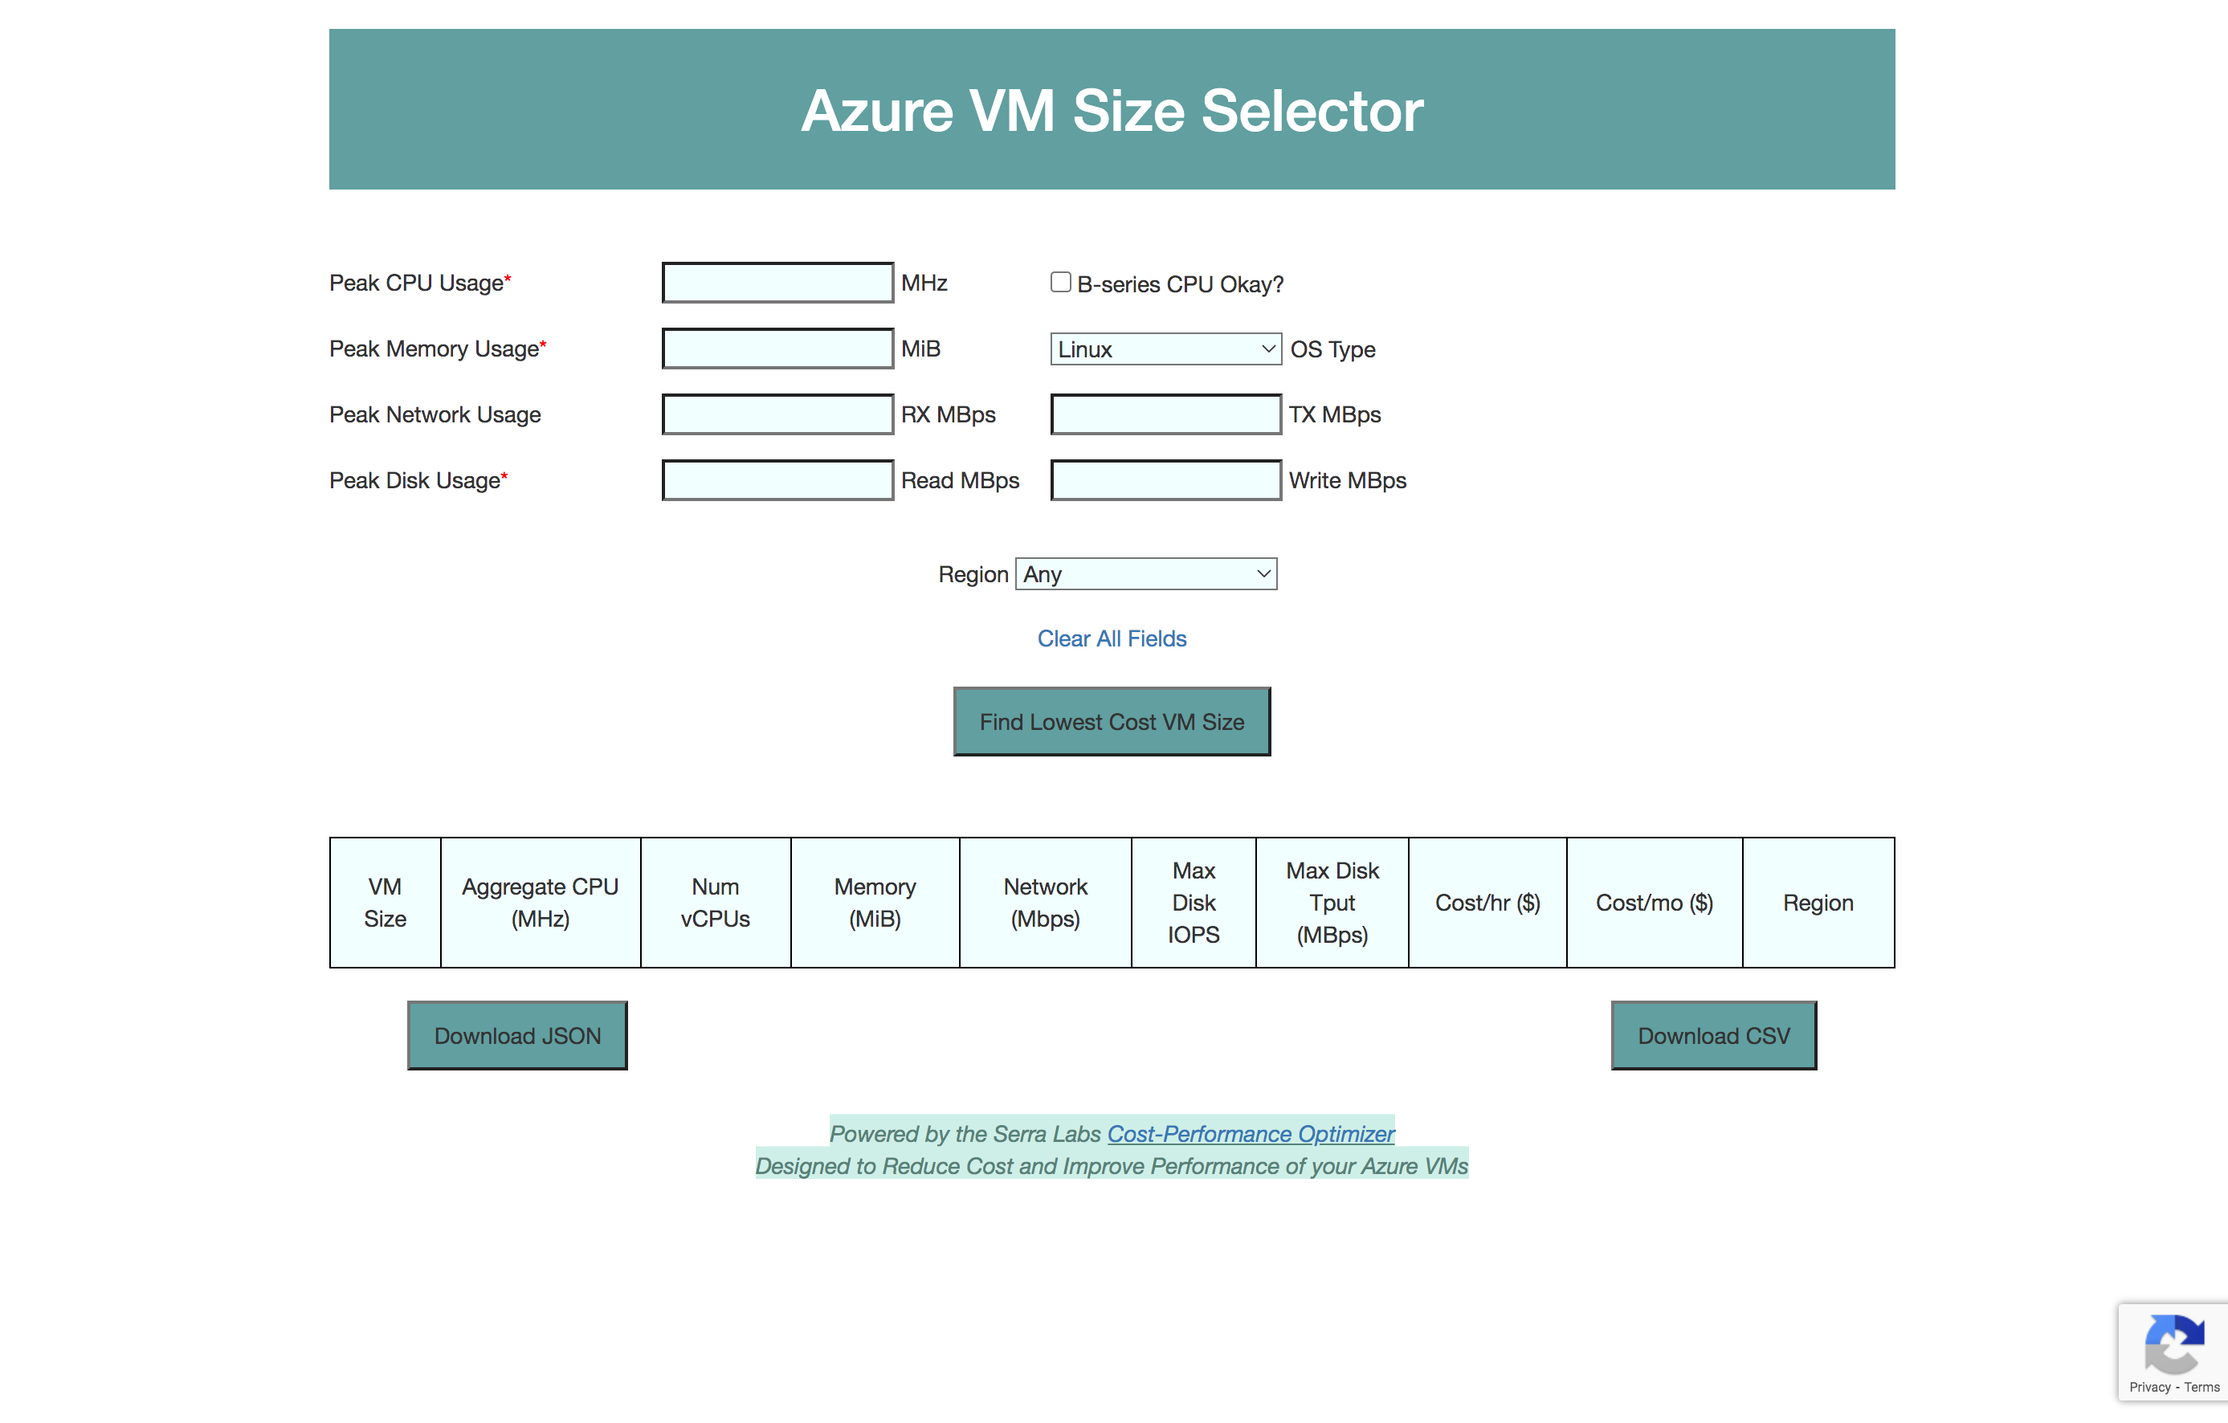
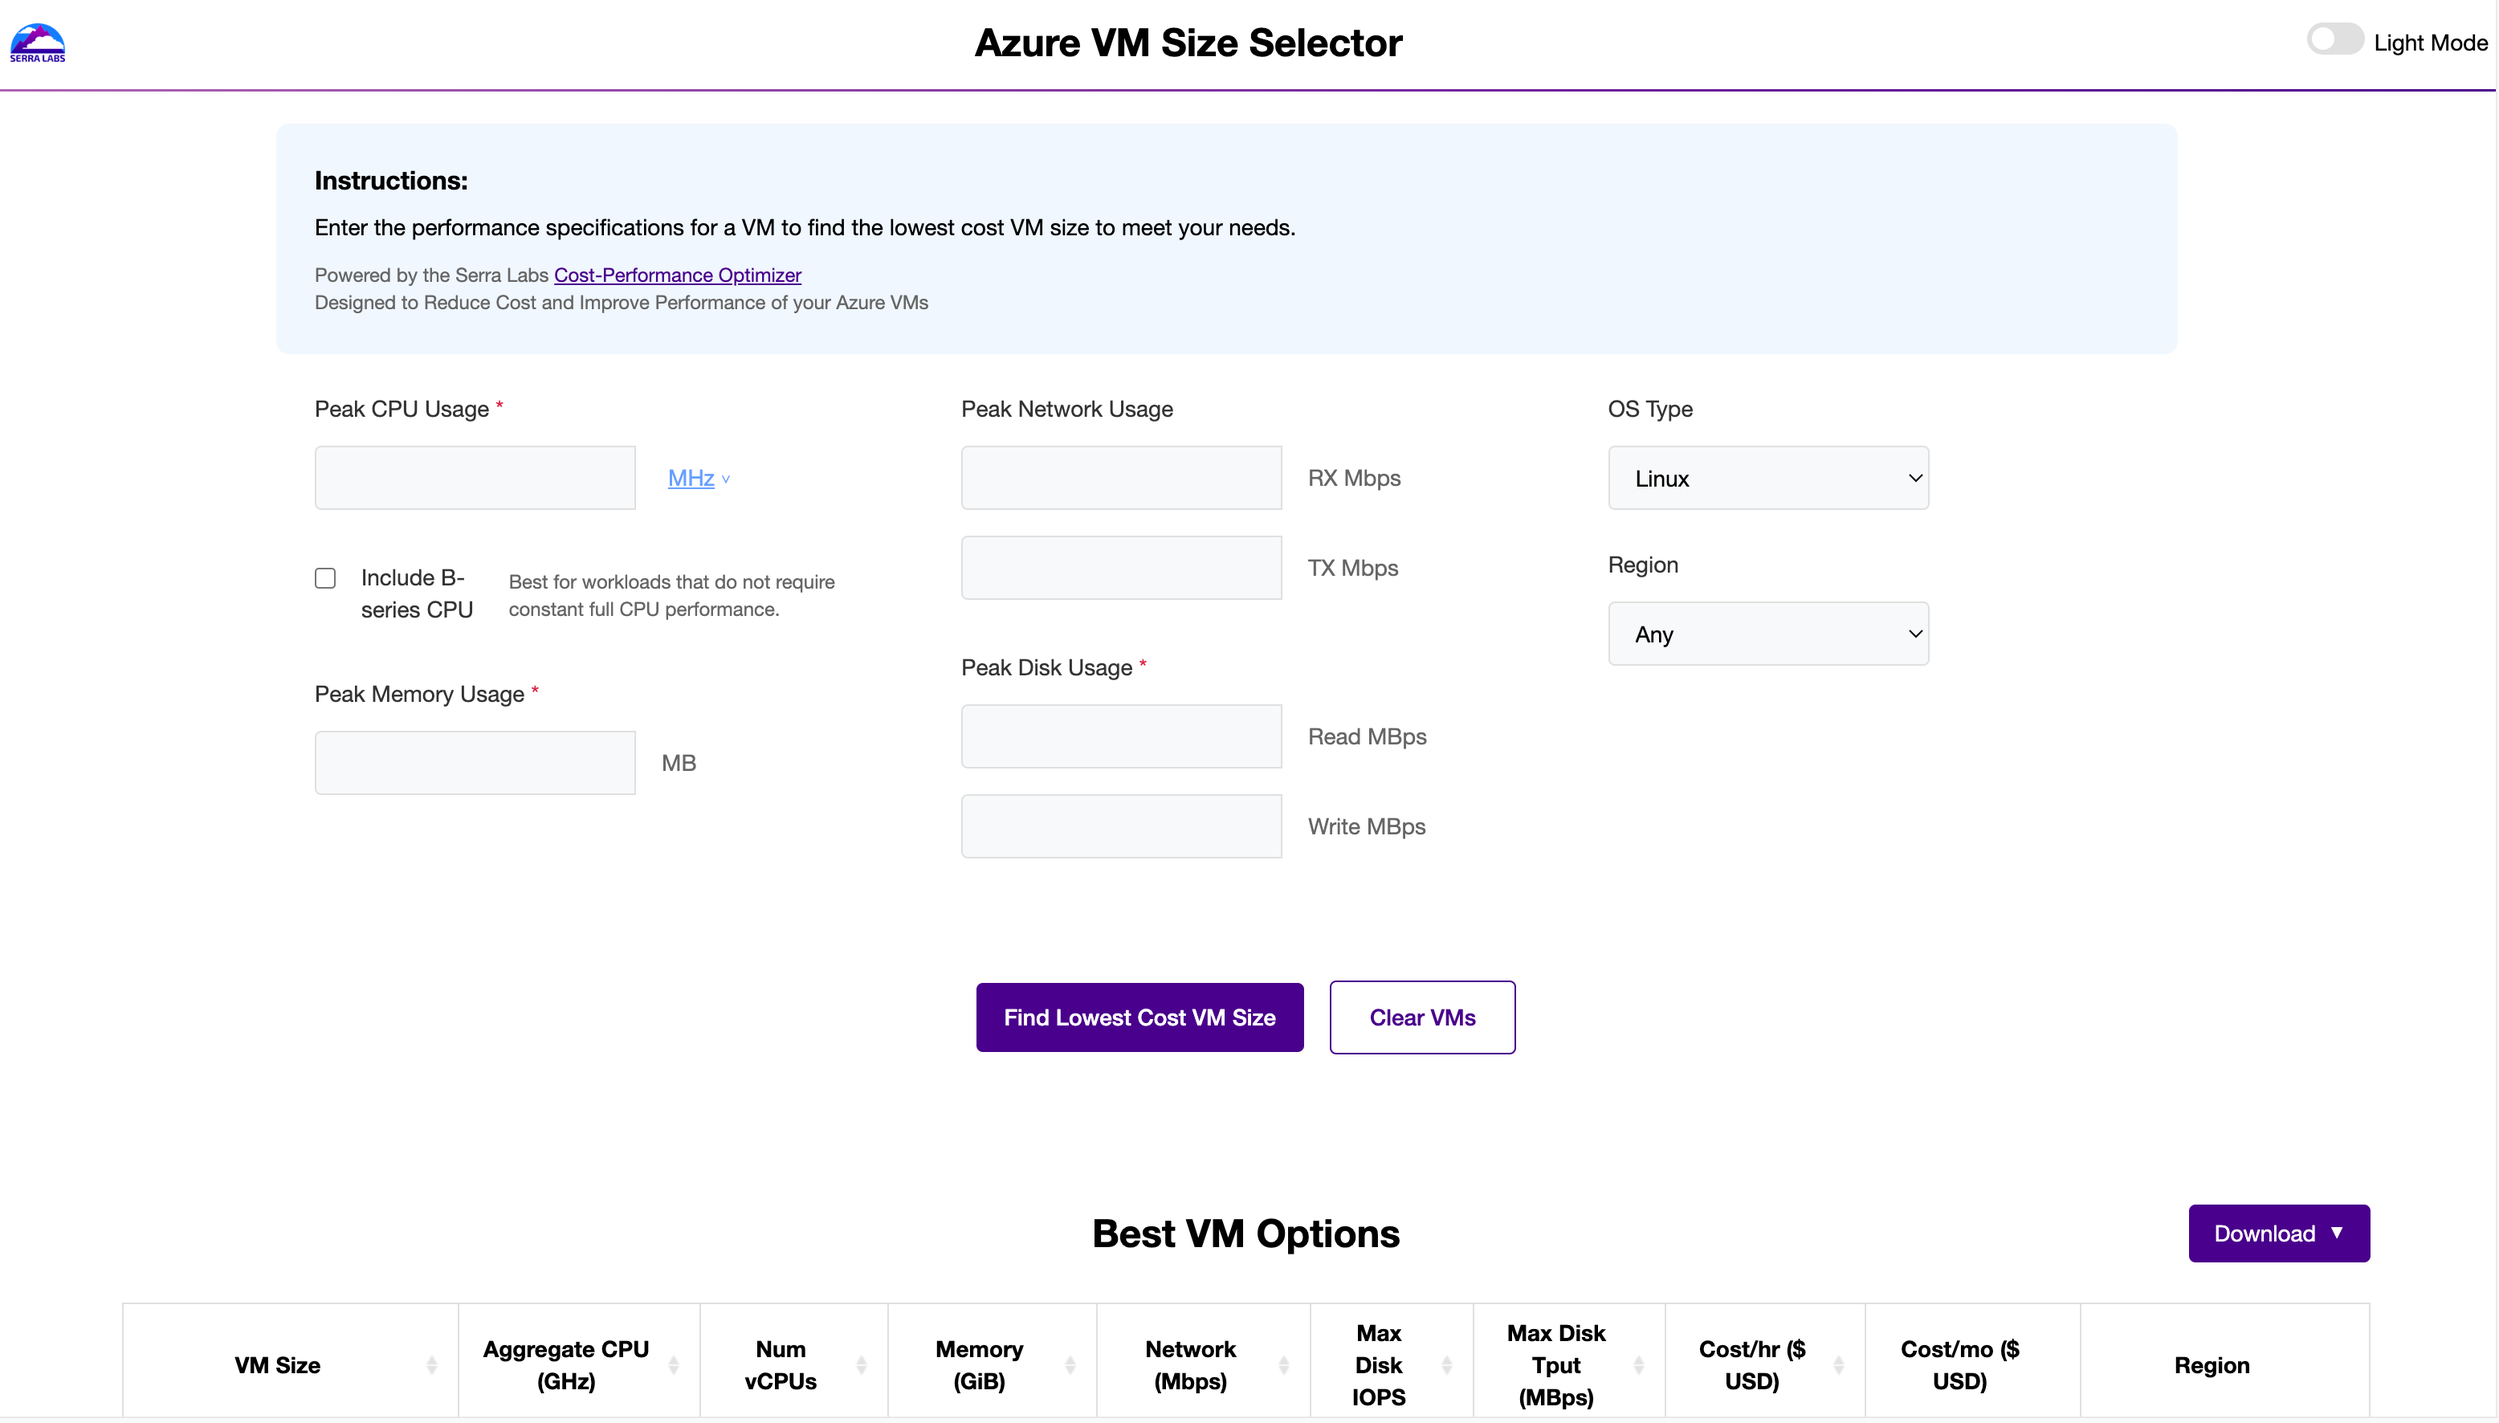
memeforge, chainsage, updated vm selector

diff --git a/index.html b/index.html
@@ -57,8 +57,8 @@
 			<ul id="skill_set_list" class="nav nav-pills">
 				<li><a href="#web_fun" data-toggle="tab">Front-End Games</a></li>
 				<li class="active"><a href="#web3" data-toggle="tab">MemeForge</a></li>
+				<li><a href="#chainsage" data-toggle="tab">ChainSage</a></li>
 				<li><a href="#serra" data-toggle="tab">Azure VM Size Selector</a></li>
-				<li><a href="#handshake" data-toggle="tab">Handshake Job Search</a></li>
 			</ul>
 		</div>
 		<div id="portfolio_content">
@@ -96,8 +96,8 @@
 
 				<div class="panel-body tab-pane active" id="web3">
 					<div class="project_list list-group">
-						<a href="static/img/MemeForge.png" class="project_link list-group-item" data-description="FINALIST AT SHAPECRAFT 2024. <br /><br/>
-						Developed a full-stack Web3 meme NFT platform on Shape Network featuring smart contract-based social interactions, remix functionality, and an innovative GasBack reward system. Built a responsive frontend with Next.js, Tailwind CSS, and ethers.js, integrating gasless transactions, IPFS storage, and on-chain community engagement mechanics. Designed a royalty distribution system rewarding creators, remixers, and top-voted content. <br /> <br />  UI NOT MOBILE FRIENDLY, PLEASE NAVIGATE TO: https://memeforge-shape.vercel.app/ <br /><br />" data-title="MemeForge" data-technologies="Solidity, JavaScript, Next.js, Tailwind CSS, ethers.js, Hardhat">
+						<a href="https://memeforge-shape.vercel.app/" class="project_link list-group-item" data-description="FINALIST AT SHAPECRAFT 2024: <a href='https://www.alchemy.com/university/projects/memeforge' target='_blank'>https://www.alchemy.com/university/projects/memeforge</a>  <br /><br/>
+						Developed a full-stack Web3 meme NFT platform on Shape Network featuring smart contract-based social interactions, remix functionality, and an innovative GasBack reward system. Built a responsive frontend with Next.js, Tailwind CSS, and ethers.js, integrating gasless transactions, IPFS storage, and on-chain community engagement mechanics. Designed a royalty distribution system rewarding creators, remixers, and top-voted content. <br /> <br />  UI NOT MOBILE FRIENDLY, PLEASE NAVIGATE TO: <a href='https://memeforge-shape.vercel.app/' target='_blank'>https://memeforge-shape.vercel.app/</a> <br /><br />" data-title="MemeForge" data-technologies="Solidity, JavaScript, Next.js, Tailwind CSS, ethers.js, Hardhat">
 							<img src="static/img/MemeForge.png" class="center-block img-thumbnail">
 							<div class="clearfix"></div>
 							<h5 class="list-group-item-heading text-center">MemeForge</h5>
@@ -130,9 +130,32 @@
 					</div>
 					<div class="clearfix"></div>
 				</div>
+
+				<div class="panel-body tab-pane" id="chainsage">
+					<div class="project_list list-group">
+						<a href="https://chain-sage.vercel.app/" class="project_link list-group-item" data-html = 'true' data-description="WINNER -- BEST DEFI PROJECT ON ZIRCUIT, ETHGLOBAL SF 2024: <a href='https://ethglobal.com/showcase/chainsage-0pwyv' target='_blank'>https://ethglobal.com/showcase/chainsage-0pwyv</a>  <br /><br/>
+						Developed an AI-powered DeFi strategy optimizer on Zircuit Network enabling secure cross-chain investment optimization. Built Solidity smart contracts integrated with LayerZero's messaging protocol and a real-time, AI-driven interface for strategy comparison, risk assessment, and liquidity analysis across DeFi protocols. <br /> <br />  UI NOT MOBILE FRIENDLY, PLEASE NAVIGATE TO: <a href='https://memeforge-shape.vercel.app/' target='_blank'>https://memeforge-shape.vercel.app/</a> <br /><br />" data-title="ChainSage" data-technologies="React.js, Solidity, JavaScript, ethers.js, Hardhat, LayerZero, Phala Network, Zircuit Network">
+							<img src="static/img/ChainSage.png" class="center-block img-thumbnail">
+							<div class="clearfix"></div>
+							<h5 class="list-group-item-heading text-center">ChainSage</h5>
+						</a>
+					</div>
+					<div class="preview_pane_container">
+						<h4></h4>
+						<p class="project_description"></p>
+						<p class="technologies_used"></p>
+						<div class="panel panel-default">
+							<div class="panel-body">
+								<div class="preview_pane"></div>
+							</div>
+						</div>
+					</div>
+					<div class="clearfix"></div>
+				</div>
+
 				<div class="panel-body tab-pane" id="serra">
 					<div class="project_list list-group">
-						<a href="https://vm-selector.herokuapp.com/" class="project_link list-group-item" data-description="Completed as part of my 2020 summer internship at Serra Labs.  Allows a potential customer to search from available Azure VMs based on desired specifications.  Completely customized, build-from-scratch, responsive front-end.  Has been up and running for three years with no issues or maintenance required." data-title="Azure VM Size Selector" data-technologies="HTML5, CSS3, JavaScript, Node.js, Express">
+						<a href="https://websvcs.northcentralus.cloudapp.azure.com/" class="project_link list-group-item" data-description="Originally developed in 2020, this full-stack tool recommends cost-effective Azure VM configurations based on performance requirements (CPU, memory, network, disk) across 40+ global regions. Currently being rebuilt since August 2024 using React.js, custom JavaScript, HTML, and CSS to improve performance and scalability. Features include dynamic sorting, data persistence, JSON/CSV export, dark mode, and real-time validation. Integrated security measures like Cloudflare Turnstile and interactive data tables ensure a seamless and secure user experience." data-title="Azure VM Size Selector" data-technologies="React.js, Vite, JavaScript, Node.js, Express, HTML, CSS">
 							<img src="static/img/serraLabs.png" class="center-block img-thumbnail">
 							<div class="clearfix"></div>
 							<h5 class="list-group-item-heading text-center">Azure VM Size Selector</h5>
@@ -150,30 +173,6 @@
 					</div>
 					<div class="clearfix"></div>
 				</div>
-
-				<div class="panel-body tab-pane" id="handshake">
-					<div class="project_list list-group">
-						<a href="https://react-handshake.herokuapp.com/" class="project_link list-group-item" data-html = 'true' data-description="Mimics the Handshake Job Posting Site (built from scratch).  Supports company and student user types.  Ensured performance and scalability via thorough JMeter testing.  REST API tested with Mocha and React components tested with Enzyme. 
-						
-						<br /> UI NOT MOBILE FRIENDLY, PLEASE NAVIGATE TO: https://react-handshake.herokuapp.com/ <br />" data-title="Handshake Job Search" data-technologies="React, Redux, Enzyme, Node.js, Express, Mocha, MySQL">
-							<img src="static/img/handshake.png" class="center-block img-thumbnail">
-							<div class="clearfix"></div>
-							<h5 class="list-group-item-heading text-center">Handshake Job Search</h5>
-						</a>
-					</div>
-					<div class="preview_pane_container">
-						<h4></h4>
-						<p class="project_description"></p>
-						<p class="technologies_used"></p>
-						<div class="panel panel-default">
-							<div class="panel-body">
-								<div class="preview_pane"></div>
-							</div>
-						</div>
-					</div>
-					<div class="clearfix"></div>
-				</div>
-
 			</div>
 		</div>
 	</div>

diff --git a/static/js/portfolio.js b/static/js/portfolio.js
@@ -1,36 +1,87 @@
-$(document).ready(function(){
-	// $('#portfolio_tab').tab()
-	$('#wrapper').on('click','.project_link', function(e){
-		e.preventDefault();
-		$(this).parents('.project_list').find('.project_link.active').removeClass('active');
-		var preview_pane = $(this).parents('.project_list').siblings('.preview_pane_container').find(' .preview_pane');
-		var info_link = $(this).parents('.project_list').siblings('.preview_pane_container').find(' .info_link');
-		preview_pane.html('<iframe src="'+ $(this).attr('href') +'" frameborder="0" width="100%" height="400px"></iframe>');
-		var title_block = $(this).parents('.project_list').siblings('.preview_pane_container').find('h4');
-		var description_block = $(this).parents('.project_list').siblings('.preview_pane_container').find('.project_description');
-		var technologies_block = $(this).parents('.project_list').siblings('.preview_pane_container').find('.technologies_used');
-		description_block.html($(this).attr('data-description'));
-		title_block.html($(this).attr('data-title'));
-		technologies_block.html('<b>Technologies Used:</b> '+ $(this).attr('data-technologies'));
-		info_link.html('<a href="'+ $(this).attr('data-link') +'">'+ $(this).attr('data-link') +'</a>');
-		$(this).addClass('active');
-	});
+$(document).ready(function () {
+  // $('#portfolio_tab').tab()
+  $("#wrapper").on("click", ".project_link", function (e) {
+    e.preventDefault();
+    $(this)
+      .parents(".project_list")
+      .find(".project_link.active")
+      .removeClass("active");
+    var preview_pane = $(this)
+      .parents(".project_list")
+      .siblings(".preview_pane_container")
+      .find(" .preview_pane");
+    var info_link = $(this)
+      .parents(".project_list")
+      .siblings(".preview_pane_container")
+      .find(" .info_link");
+    // Check if it's an image preview
+    if ($(this).attr("data-preview-type") === "image") {
+      preview_pane.html(
+        '<img src="' +
+          $(this).attr("href") +
+          '" style="width: 100%; height: 400px;">'
+      );
+    } else {
+      preview_pane.html(
+        '<iframe src="' +
+          $(this).attr("href") +
+          '" frameborder="0" width="100%" height="400px"></iframe>'
+      );
+    }
+    var title_block = $(this)
+      .parents(".project_list")
+      .siblings(".preview_pane_container")
+      .find("h4");
+    var description_block = $(this)
+      .parents(".project_list")
+      .siblings(".preview_pane_container")
+      .find(".project_description");
+    var technologies_block = $(this)
+      .parents(".project_list")
+      .siblings(".preview_pane_container")
+      .find(".technologies_used");
+    description_block.html($(this).attr("data-description"));
+    title_block.html($(this).attr("data-title"));
+    technologies_block.html(
+      "<b>Technologies Used:</b> " + $(this).attr("data-technologies")
+    );
+    info_link.html(
+      '<a href="' +
+        $(this).attr("data-link") +
+        '">' +
+        $(this).attr("data-link") +
+        "</a>"
+    );
+    $(this).addClass("active");
+  });
 
-	$('.project_list').each(function(){
-		var list_item = $(this).find('.project_link:first-child');
-		var preview_pane_container = $(this).siblings('.preview_pane_container')
-		var preview_pane = preview_pane_container.find('.preview_pane');
-		var info_link = preview_pane_container.find('.info_link');
-		var title_block = preview_pane_container.find('h4');
-		var description_block = preview_pane_container.find('.project_description');
-		var technologies_block = preview_pane_container.find('.technologies_used');
-		preview_pane.html('<iframe src="'+ list_item.attr('href') +'" frameborder="0" width="100%" height="400px"></iframe>');
+  $(".project_list").each(function () {
+    var list_item = $(this).find(".project_link:first-child");
+    var preview_pane_container = $(this).siblings(".preview_pane_container");
+    var preview_pane = preview_pane_container.find(".preview_pane");
+    var info_link = preview_pane_container.find(".info_link");
+    var title_block = preview_pane_container.find("h4");
+    var description_block = preview_pane_container.find(".project_description");
+    var technologies_block = preview_pane_container.find(".technologies_used");
+    preview_pane.html(
+      '<iframe src="' +
+        list_item.attr("href") +
+        '" frameborder="0" width="100%" height="400px"></iframe>'
+    );
 
-		description_block.html(list_item.attr('data-description'));
-		
-		technologies_block.html('<b>Technologies Used:</b> '+ list_item.attr('data-technologies'));
-		title_block.html(list_item.attr('data-title'));
-		info_link.html('<a href="'+ list_item.attr('data-link') +'">'+ list_item.attr('data-link') +'</a>');
-		list_item.addClass('active');
-	});
-})
+    description_block.html(list_item.attr("data-description"));
+
+    technologies_block.html(
+      "<b>Technologies Used:</b> " + list_item.attr("data-technologies")
+    );
+    title_block.html(list_item.attr("data-title"));
+    info_link.html(
+      '<a href="' +
+        list_item.attr("data-link") +
+        '">' +
+        list_item.attr("data-link") +
+        "</a>"
+    );
+    list_item.addClass("active");
+  });
+});

diff --git a/static/css/common_iteration_3.css b/static/css/common_iteration_3.css
@@ -10,23 +10,42 @@ body{
 	background: #fff;
 	padding: 10px;
 }
-#skill_set_list{
+/* #skill_set_list{
 	font-weight: bold;
 	margin-top: 10px;
 	border-bottom: 0px;
+	display: flex;
+    flex-wrap: wrap;
+} */
+
+#skill_set_list,
+#skill_set_list.nav-tabs {
+	font-weight: bold;
+    display: flex !important;
+    flex-wrap: wrap !important;
+    align-items: center !important;
+    gap: 15px !important;
+    border-bottom: 0 !important;
 }
-#skill_set_list li a{
-	color: #fff;
-	margin: 0px;
-	padding: 8px 10px;
+
+#skill_set_list > li,
+#skill_set_list.nav-tabs > li {
+    margin-right: 15px !important;
+    margin-bottom: 0 !important;
+    float: none !important;
 }
-#skill_set_list li.active a, #skill_set_list li:hover a{
-	background: rgba(0,0,0, 0.75);
-	border-color: transparent;
+
+#skill_set_list > li > a,
+#skill_set_list.nav-tabs > li > a {
+    padding: 8px 20px !important;
+    margin: 0 !important;
 }
-#skill_set_list li{
-	margin-bottom: 0px;
+
+#skill_set_list > li:last-child,
+#skill_set_list.nav-tabs > li:last-child {
+    margin-right: 0 !important;
 }
+
 #portfolio_content{
 	background: rgba(0,0,0,0.75);
 }

diff --git a/static/css/common_iteration_1.css b/static/css/common_iteration_1.css
@@ -20,6 +20,7 @@ body{
 #skill_set_list li a{
 	padding: 8px 15px;
 }
+
 #portfolio_content{
 	margin-bottom: 0px !important;
 }
